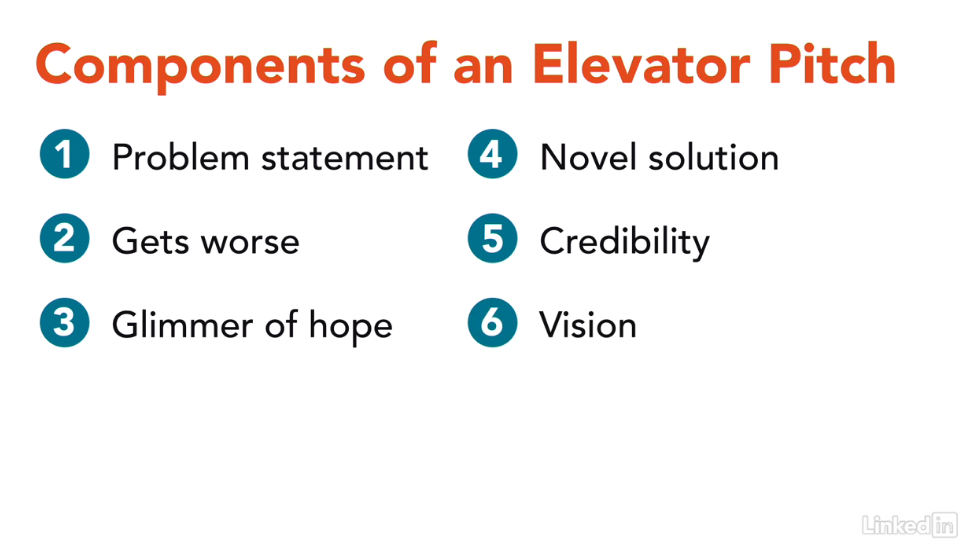
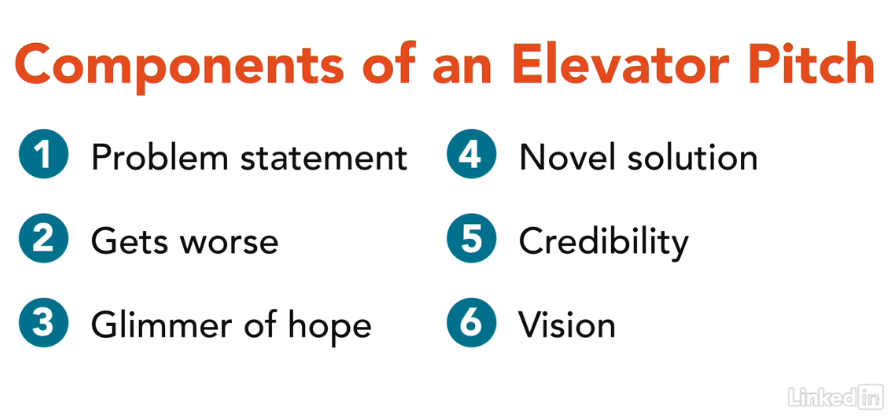
updating updates to the updates

diff --git a/TechComm/semester/2023-01-Spring/this-week/2023-03-15-this-week.html b/TechComm/semester/2023-01-Spring/this-week/2023-03-15-this-week.html
@@ -1,114 +1,113 @@
 <!doctype html>
 <html lang="en">
-  <head>
-    <!-- Required meta tags -->
-    <meta charset="utf-8">
-    <meta name="viewport" content="width=device-width, initial-scale=1, shrink-to-fit=no">
-    <meta name="description" content="Weekly Newsletter for Technical Writing Courses">
-    <meta name="keywords" content="technical writing, communication, science writing, research, documentation">
-    <meta name="author" content="Traci Gardner">
+<head>
+<!-- Required meta tags -->
+<meta charset="utf-8">
+<meta name="viewport" content="width=device-width, initial-scale=1, shrink-to-fit=no">
+<meta name="description" content="Weekly Newsletter for Technical Writing Courses">
+<meta name="keywords" content="technical writing, communication, science writing, research, documentation">
+<meta name="author" content="Traci Gardner">
 
-    <!-- Bootstrap CSS -->
-    <link rel="stylesheet" href="https://cdn.jsdelivr.net/npm/bootstrap@4.0.0/dist/css/bootstrap.min.css" integrity="sha384-Gn5384xqQ1aoWXA+058RXPxPg6fy4IWvTNh0E263XmFcJlSAwiGgFAW/dAiS6JXm" crossorigin="anonymous">
-    
-      <!-- Newsletter CSS -->
-      <link rel="stylesheet" href="https://maxcdn.bootstrapcdn.com/font-awesome/4.6.3/css/font-awesome.min.css">
-      <link href="../../../-css/this-week.css" rel="stylesheet" type="text/css">
+<!-- Bootstrap CSS -->
+<link rel="stylesheet" href="https://cdn.jsdelivr.net/npm/bootstrap@4.0.0/dist/css/bootstrap.min.css" integrity="sha384-Gn5384xqQ1aoWXA+058RXPxPg6fy4IWvTNh0E263XmFcJlSAwiGgFAW/dAiS6JXm" crossorigin="anonymous">
+
+<!-- Newsletter CSS -->
+<link rel="stylesheet" href="https://maxcdn.bootstrapcdn.com/font-awesome/4.6.3/css/font-awesome.min.css">
+<link href="../../../-css/this-week.css" rel="stylesheet" type="text/css">
 <title>This Week in Tech Writing</title>
-  </head>
-  <body>
-    <header>
+</head>
+<body>
+<header>
   <div class="container-fluid tw-header">
     <div class="row justify-content-center">
-                <div class="col-md-12 masthead"><h1 class="text-center">This Week in Tech Writing</h1></div>
-            </div>
-          <div class="row masthead">
-              <div class="col-sm-6"><h2 class="text-left">Updates for Traci’s English 3764 Courses</h2>
-              </div>
-              <div class="col-sm-6"><h2 class="text-right">Week 8: Wednesday, March 15, 2023</h2>
-              </div>
-          </div>
-        </div>
-    </header>
-
+      <div class="col-md-12 masthead">
+        <h1 class="text-center">This Week in Tech Writing</h1>
+      </div>
+    </div>
+    <div class="row masthead">
+      <div class="col-sm-6">
+        <h2 class="text-left">Updates for Traci’s English 3764 Courses</h2>
+      </div>
+      <div class="col-sm-6">
+        <h2 class="text-right">Week 8: Wednesday, March 15, 2023</h2>
+      </div>
+    </div>
+  </div>
+</header>
 <div class="container-fluid ptop-row">
-        <div class="row">
-          <div class="col-sm-6">
-          <h3>Feedback Is Ongoing</h3>
-            <p>Spring Break is never long enough, is it? I planned to get much more work done. I wrote two proposals and a 45-minute presentation, but I didn’t get feedback on all of the work you have turned in.&nbsp;</p>
-              <p>I need a bit of a grace period myself this week. I hope to have everything finished by the weekend.</p>
-          </div>
-          <div class="col-sm-6 border-left-line">
-          <h3>Find Help in the Pitch Tip Sheet<img src="/TechComm/-images/noun_Elevator Pitch_2909310.png" alt="Two women presenting their ideas" width="150" height="148" style="margin-top: 3px;margin-left: 9px;margin-bottom: 12px;float: right;"/></h3>
-              <p>As you work on your presentation video, be sure to refer to the advice in the <a href="https://docs.google.com/document/d/1XgZVgsWV2PSxIcXuzxRd8zgkUWeFx0-LMhebgp9Ffks/edit?usp=sharing" target="_blank">Tip Sheet: Pitch</a>. The Tip Sheet outlines all the points you need to include in your presentation. If you follow the advice you find there, you are bound to earn a Complete for your Pitch on the first try.&nbsp;&nbsp;</p>
-          <p style="text-align: center;margin-top: 1px;"></p>
-          </div>
-</div>
-<div class="row border-top-line">
-  <div class="col-sm-12"><h3>How to Start Your Pitch</h3></div>
- </div>
-    <div class="row" style="margin-bottom: 9px;">
+  <div class="row">
+    <div class="col-sm-6">
+      <h3>Feedback Is Ongoing</h3>
+      <p>Spring Break is never long enough, is it? I planned to get much more work done. I wrote two proposals and a 45-minute presentation, but I didn’t get feedback on all of the work you have turned in.&nbsp;</p>
+      <p>I need a bit of a grace period myself this week. I hope to have everything finished by the weekend.</p>
+    </div>
+    <div class="col-sm-6 border-left-line">
+      <h3>Find Help in the Pitch Tip Sheet<img src="/TechComm/-images/noun_Elevator Pitch_2909310.png" alt="Two women presenting their ideas" width="150" height="148" style="margin-top: 3px;margin-left: 9px;margin-bottom: 12px;float: right;"/></h3>
+      <p>As you work on your presentation video, be sure to refer to the advice in the <a href="https://docs.google.com/document/d/1XgZVgsWV2PSxIcXuzxRd8zgkUWeFx0-LMhebgp9Ffks/edit?usp=sharing" target="_blank">Tip Sheet: Pitch</a>. The Tip Sheet outlines all the points you need to include in your presentation. If you follow the advice you find there, you are bound to earn a Complete for your Pitch on the first try.&nbsp;&nbsp;</p>
+      <p style="text-align: center;margin-top: 1px;"></p>
+    </div>
+  </div>
+  <div class="row border-top-line">
+    <div class="col-sm-12">
+      <h3>How to Start Your Pitch</h3>
+    </div>
+  </div>
+  <div class="row" style="margin-bottom: 9px;">
     <div class="col-sm-7">
-        <div class="embed-responsive embed-responsive-16by9" style="border: 1px solid #d7d2cb;">
-            <iframe class="embed-responsive-item" src="https://www.youtube.com/embed/P2LwuF7zn9c" title="YouTube video player" frameborder="0" allow="accelerometer; autoplay; clipboard-write; encrypted-media; gyroscope; picture-in-picture; web-share" allowfullscreen></iframe>
-        </div>
+      <div class="embed-responsive embed-responsive-16by9" style="border: 1px solid #d7d2cb;">
+        <iframe class="embed-responsive-item" src="https://www.youtube.com/embed/P2LwuF7zn9c" title="YouTube video player" frameborder="0" allow="accelerometer; autoplay; clipboard-write; encrypted-media; gyroscope; picture-in-picture; web-share" allowfullscreen></iframe>
+      </div>
     </div>
     <div class="col-sm-5">
-                        <p>Example content to replace</p>
-    </div> 
-</div>
-    
-<div class="row border-top-line">
+      <p>Example content to replace</p>
+    </div>
+  </div>
+  <div class="row border-top-line">
     <div class="col-sm-12">
       <h3 style="margin-top: 9px;">HEADLINE</h3>
       <p>Example content to replace</p>
-              <ul>
-                <li><a href="https://canvas.vt.edu/courses/166227/pages/turn-your-powerpoint-slides-into-a-video" target="_blank">Turn Your PowerPoint Slides into a Video</a></li>
-                <li><a href="https://canvas.vt.edu/courses/166227/pages/ways-to-record-your-presentation" target="_blank">Ways to Record Your Presentation</a></li>
-                <li><a href="https://canvas.vt.edu/courses/166227/pages/using-kaltura-to-create-your-video" target="_blank">Using Kaltura to Create Your Video</a></li>
-              </ul>
-              <p>&nbsp;</p>
+      <ul>
+        <li><a href="https://canvas.vt.edu/courses/166227/pages/turn-your-powerpoint-slides-into-a-video" target="_blank">Turn Your PowerPoint Slides into a Video</a></li>
+        <li><a href="https://canvas.vt.edu/courses/166227/pages/ways-to-record-your-presentation" target="_blank">Ways to Record Your Presentation</a></li>
+        <li><a href="https://canvas.vt.edu/courses/166227/pages/using-kaltura-to-create-your-video" target="_blank">Using Kaltura to Create Your Video</a></li>
+      </ul>
+      <p>&nbsp;</p>
     </div>
-</div>
-<div class="row" style="margin-top: 6px;">
-    <div class="col-sm-4">
-          <h4>HEADING</h4>
-              <p>https://guykawasaki.com/the-only-10-slides-you-need-in-your-pitch/</p>
-      </div>
-        <div class="col-sm-4 border-left-line">
-          <h4>HEADING</h4>
-              <p>Example content to replace</p>
-        </div>
-        <div class="col-sm-4 border-left-line">
-          <h4>HEADING</h4>
-              <p>Example content to replace</p>
-          <p></p>
-        </div>
   </div>
-<div class="row justify-content-lg-around border-top-line">
-           <p style="padding-top: 9px;"><a class="btn btn-home" role="button" href="https://canvas.vt.edu/courses/166227" target="_blank"><span style="font-size: 30px;float: left;">🏠</span><strong>Course<br />Home</strong></a> 
-    <a class="btn btn-home" role="button" href="https://community.canvaslms.com/t5/Canvas-Guides/ct-p/canvas_guides" target="_blank"><span style="font-size: 30px;float: left;">📒</span><strong>Canvas<br />Docs</strong></a> 
-    <a class="btn btn-home" role="button" href="https://cases.canvaslms.com/liveagentchat?chattype=student" target="_blank"><span style="font-size: 30px;float: left;">💬</span><strong>Canvas Support<br />Chat</strong></a> 
-    <a class="btn btn-home" role="button" href="https://4help.vt.edu/" target="_blank"><span style="font-size: 30px;float: left;">💻</span><strong>4Help<br />Online</strong></a> 
-    <a class="btn btn-home" role="button" href="tel:+1-540-231-4357"><span style="font-size: 30px;float: left;">📱</span><strong>Phone<br />4Help</strong></a> 
-    <a class="btn btn-home" role="button" href="https://canvas.vt.edu/conversations?context_id=course_166227&user_id=122383&user_name=Traci%20Gardner#filter=type=inbox" target="_blank"><span style="font-size: 30px;float: left;">📧</span><strong>Contact<br />Traci</strong></a></p>
-</div>
-    <div id="footer" class="row footer-bkgd">
-        <div class="col-sm-12">
-          <p class="footer">© 2023 Traci Gardner. This newsletter is licensed under a <a rel="license" href="http://creativecommons.org/licenses/by-nc-sa/4.0/">Creative Commons Attribution-NonCommercial Share-Alike 4.0 International License</a>, unless noted otherwise.</p>
-        <p class="footer-divider-line"></p>
-          <address class="footer" style="text-align: center;">
-          Traci Gardner, Department of English, Virginia Tech, 323 Shanks Hall (0112), 181 Turner St. NW, Blacksburg, VA 24061
-          </address>
-        </div>
+  <div class="row" style="margin-top: 6px;">
+    <div class="col-sm-7">
+      <h4>Constructing Your Slides</h4>
+      <p>https://guykawasaki.com/the-only-10-slides-you-need-in-your-pitch/</p>
     </div>
-    <p style="margin-top: 9px;"></p>
-    
+    <div class="col-sm-5 border-left-line">
+      <h4>Six Parts of Your Pitch</h4>
+      <p>The LinkedIn Learning video linked from the <a href="https://canvas.vt.edu/courses/166227/assignments/1668899" target="_blank">Pitch Assignment</a> outlines these six things to cover in an elevator pitch. Use these components to structure the body of your presentation. <br><img class="img-fluid" src="2023-03-15-six-part-pitch.png" alt="Outline of the six Components of an Elevator Pitch: 1-Problem statement, 2-Gets worse, 3-Glimmer of hope, 4-Novel solution, 5-Credibility, and 6-Vision"/></p>
+      </div>
+  </div>
+  <div class="row justify-content-lg-around border-top-line">
+    <p style="padding-top: 9px;"><a class="btn btn-home" role="button" href="https://canvas.vt.edu/courses/166227" target="_blank"><span style="font-size: 30px;float: left;">🏠</span><strong>Course<br />
+      Home</strong></a> <a class="btn btn-home" role="button" href="https://community.canvaslms.com/t5/Canvas-Guides/ct-p/canvas_guides" target="_blank"><span style="font-size: 30px;float: left;">📒</span><strong>Canvas<br />
+      Docs</strong></a> <a class="btn btn-home" role="button" href="https://cases.canvaslms.com/liveagentchat?chattype=student" target="_blank"><span style="font-size: 30px;float: left;">💬</span><strong>Canvas Support<br />
+      Chat</strong></a> <a class="btn btn-home" role="button" href="https://4help.vt.edu/" target="_blank"><span style="font-size: 30px;float: left;">💻</span><strong>4Help<br />
+      Online</strong></a> <a class="btn btn-home" role="button" href="tel:+1-540-231-4357"><span style="font-size: 30px;float: left;">📱</span><strong>Phone<br />
+      4Help</strong></a> <a class="btn btn-home" role="button" href="https://canvas.vt.edu/conversations?context_id=course_166227&user_id=122383&user_name=Traci%20Gardner#filter=type=inbox" target="_blank"><span style="font-size: 30px;float: left;">📧</span><strong>Contact<br />
+      Traci</strong></a></p>
+  </div>
+  <div id="footer" class="row footer-bkgd">
+    <div class="col-sm-12">
+      <p class="footer">© 2023 Traci Gardner. This newsletter is licensed under a <a rel="license" href="http://creativecommons.org/licenses/by-nc-sa/4.0/">Creative Commons Attribution-NonCommercial Share-Alike 4.0 International License</a>, unless noted otherwise.</p>
+      <p class="footer-divider-line"></p>
+      <address class="footer" style="text-align: center;">
+      Traci Gardner, Department of English, Virginia Tech, 323 Shanks Hall (0112), 181 Turner St. NW, Blacksburg, VA 24061
+      </address>
+    </div>
+  </div>
+  <p style="margin-top: 9px;"></p>
 </div>
-    <!-- Optional JavaScript -->
-    <!-- jQuery first, then Popper.js, then Bootstrap JS -->
-    <script src="https://code.jquery.com/jquery-3.2.1.slim.min.js" integrity="sha384-KJ3o2DKtIkvYIK3UENzmM7KCkRr/rE9/Qpg6aAZGJwFDMVNA/GpGFF93hXpG5KkN" crossorigin="anonymous"></script>
-    <script src="https://cdn.jsdelivr.net/npm/popper.js@1.12.9/dist/umd/popper.min.js" integrity="sha384-ApNbgh9B+Y1QKtv3Rn7W3mgPxhU9K/ScQsAP7hUibX39j7fakFPskvXusvfa0b4Q" crossorigin="anonymous"></script>
-    <script src="https://cdn.jsdelivr.net/npm/bootstrap@4.0.0/dist/js/bootstrap.min.js" integrity="sha384-JZR6Spejh4U02d8jOt6vLEHfe/JQGiRRSQQxSfFWpi1MquVdAyjUar5+76PVCmYl" crossorigin="anonymous"></script>
-  </body>
+<!-- Optional JavaScript --> 
+<!-- jQuery first, then Popper.js, then Bootstrap JS --> 
+<script src="https://code.jquery.com/jquery-3.2.1.slim.min.js" integrity="sha384-KJ3o2DKtIkvYIK3UENzmM7KCkRr/rE9/Qpg6aAZGJwFDMVNA/GpGFF93hXpG5KkN" crossorigin="anonymous"></script> 
+<script src="https://cdn.jsdelivr.net/npm/popper.js@1.12.9/dist/umd/popper.min.js" integrity="sha384-ApNbgh9B+Y1QKtv3Rn7W3mgPxhU9K/ScQsAP7hUibX39j7fakFPskvXusvfa0b4Q" crossorigin="anonymous"></script> 
+<script src="https://cdn.jsdelivr.net/npm/bootstrap@4.0.0/dist/js/bootstrap.min.js" integrity="sha384-JZR6Spejh4U02d8jOt6vLEHfe/JQGiRRSQQxSfFWpi1MquVdAyjUar5+76PVCmYl" crossorigin="anonymous"></script>
+</body>
 </html>
